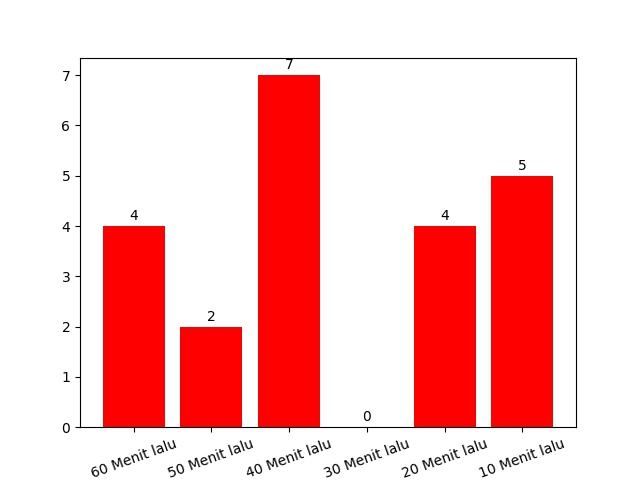
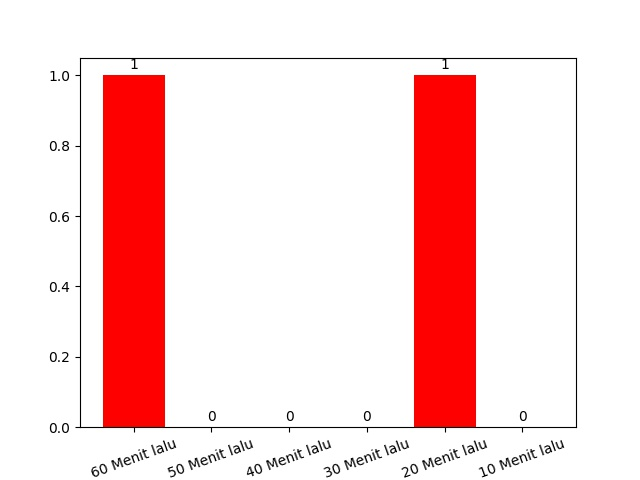
tambah his

diff --git a/main.py b/main.py
@@ -1,10 +1,16 @@
 import requests, threading,time
+from datetime import datetime
 import matplotlib.pyplot as plt
 hed = {'User-Agent':'Mozilla/5.0 (X11; Linux x86_64; rv:85.0) Gecko/20100101 Firefox/85.0'}
 trakhir = 0
 krg = 0
 pengurangan = [0,0,0,0,0,0,0] #ambil 6 data atau 60 menit
 ttt = ['60 Menit lalu','50 Menit lalu','40 Menit lalu','30 Menit lalu','20 Menit lalu','10 Menit lalu']
+
+def jam():
+	f = datetime.now().strftime("%H:%M:%S")
+	return f
+
 def chart():
 	def autolabel(rects):
 		for rect in rects:
@@ -18,9 +24,12 @@ def chart():
 	autolabel(p)
 	plt.xticks(rotation = 20)
 	plt.savefig('p.jpg')
-	plt.cla()
-	plt.clf()
-	plt.close('all')
+	with open('per10-Minute.txt', 'a') as tls:
+		tls.write(f'{pengurangan[-1]} ---- {jam()}\n')
+
+	# plt.cla()
+	# plt.clf()
+	#plt.close('all')
 
 
 def hitung(jumlah):
@@ -63,7 +72,8 @@ def st(nama):
 			trakhir = jml
 		except:
 			pass
-		if sec == 600:
+		if sec == 1:
+			
 			if krg < 0 :
 				krg = 0
 			pengurangan.append(krg)
